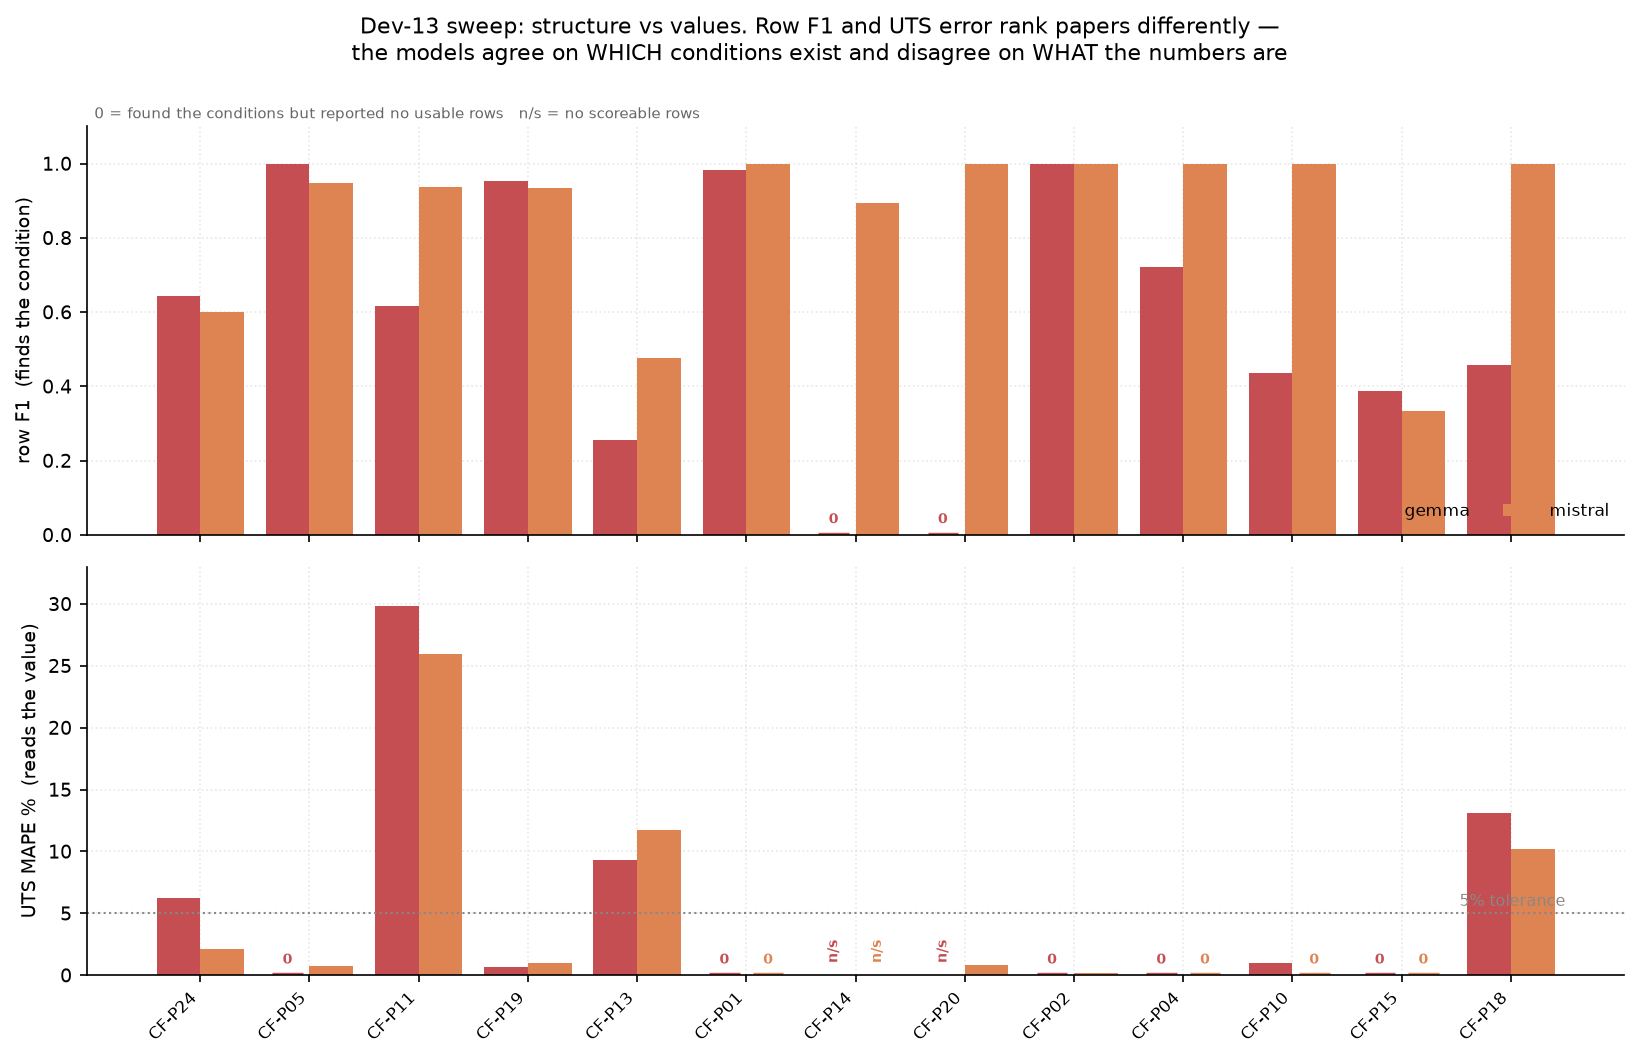
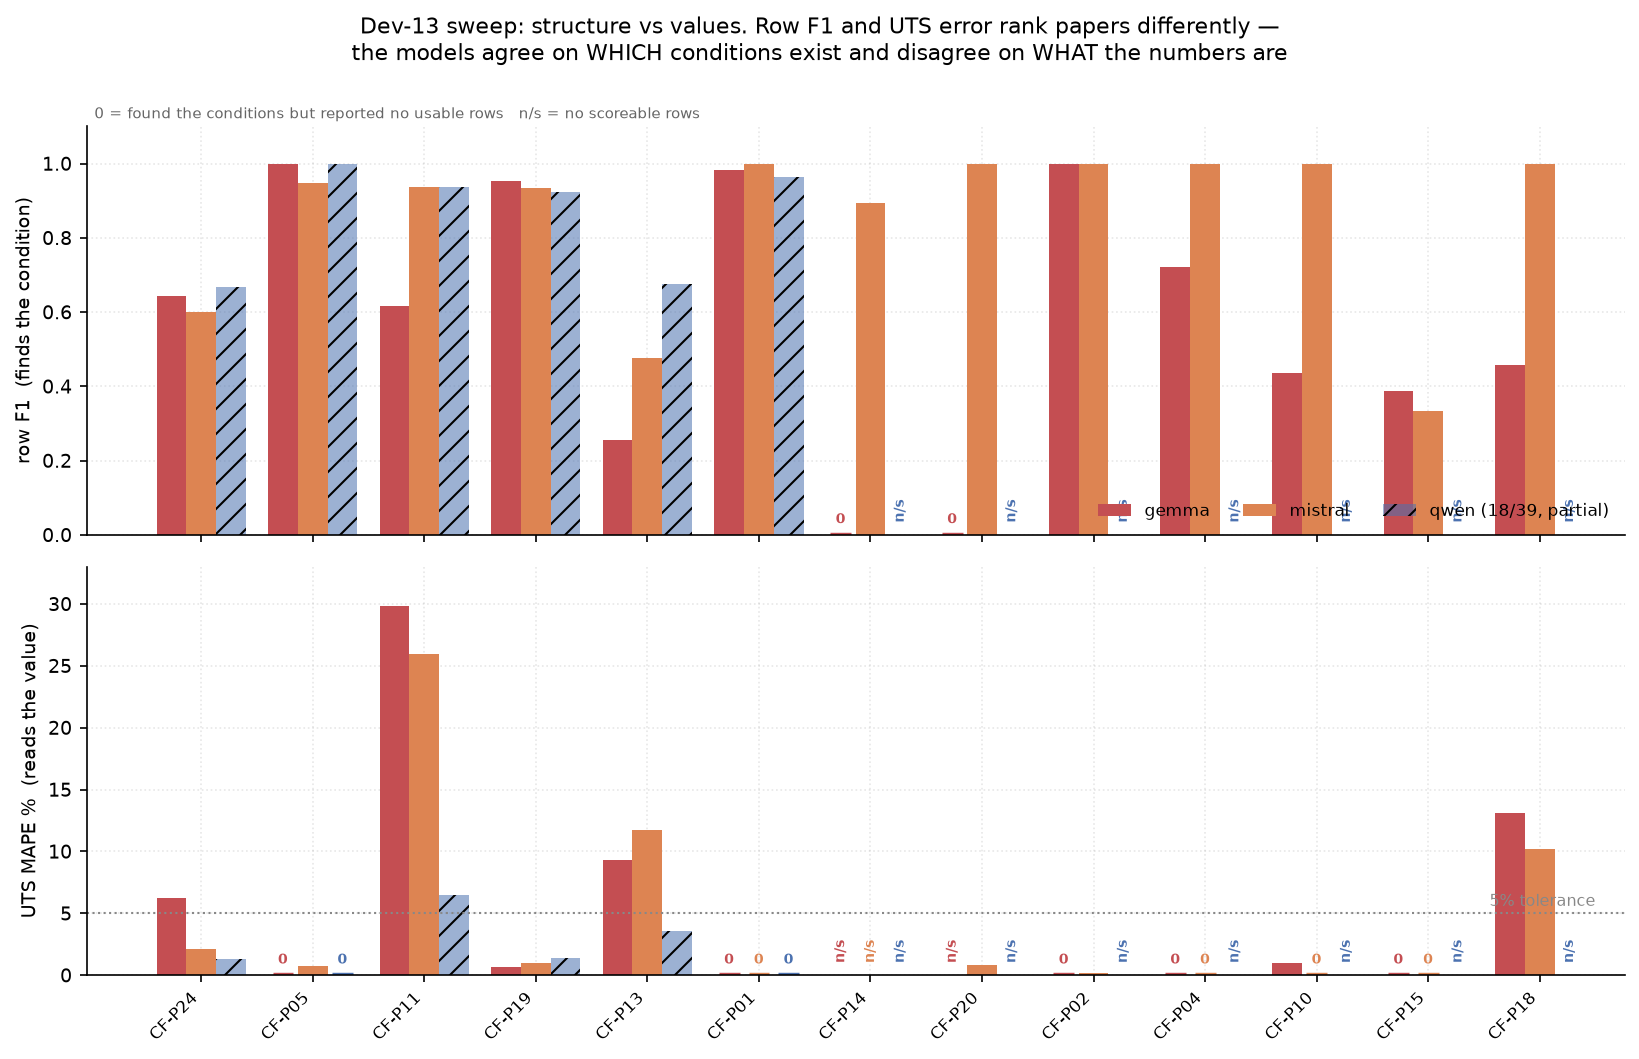
Fix qwen omission and label the two experiment generations
Two defects found on review:

1. fig6 silently DROPPED qwen because it filtered to models with >=39 runs. A
   partially-complete model vanished from the chart with no indication it had
   been run at all — indistinguishable from "not attempted". Partial series are
   now drawn hatched and semi-transparent with their run count in the legend.

2. Worse: the page mixed two experiment generations without saying so. The early
   per-paper runs (mixed prompt versions) report qwen at 3.48% MAPE, while the
   frozen dev-13 sweep showed it as incomplete — same model, two numbers, no
   labelling. A reader would rightly distrust the page.

Both generations are now labelled at the top of README and findings.md, every
table states which it comes from, and generation B (frozen prompt) is identified
as the one to cite. qwen's partial sweep numbers (18/39, 6/13 papers) are shown
in italics with an explicit warning that the papers covered so far are not a
random subset.

Also re-staged DEV13-sweep.xlsx, which was stale at 82 runs (now 96).

Claude-Session: https://claude.ai/code/session_013UGCw4LNzR9XkocEn6dyzh

diff --git a/make_figures.py b/make_figures.py
@@ -170,7 +170,11 @@ if (R / "DEV13-sweep.xlsx").exists():
     d13 = pd.read_excel(R / "DEV13-sweep.xlsx", sheet_name="summary")
     d13["model"] = d13["run"].str.split("__").str[1].str.split("-").str[0]
     d13["paper"] = d13["run"].str.split("__").str[0]
-    done = [m for m in MODELS if (d13.model == m).sum() >= 39]
+    # Include EVERY model that has runs. Dropping a partially-complete model makes it vanish
+    # from the chart with no indication it was ever run -- a reader cannot tell "absent" from
+    # "not yet finished". Partial series are drawn and labelled with their run count instead.
+    done = [m for m in MODELS if (d13.model == m).sum() > 0]
+    counts = {m: int((d13.model == m).sum()) for m in done}
     papers = (d13.groupby("paper")["gt_rows"].first().sort_values(ascending=False).index.tolist())
     fig, axes = plt.subplots(2, 1, figsize=(11, 7), sharex=True)
     x = np.arange(len(papers)); w = 0.8 / max(len(done), 1)
@@ -180,7 +184,12 @@ if (R / "DEV13-sweep.xlsx").exists():
                                               (axes[1], "UTS_MAPE_pct", "UTS MAPE %  (reads the value)")]):
             v = [g[met].mean().get(p, np.nan) for p in papers]
             pos = x + (j - (len(done) - 1) / 2) * w
-            ax.bar(pos, v, w, label=mo if k_ == 0 else None, color=COLOR[mo])
+            lab = None
+            if k_ == 0:
+                lab = mo if counts[mo] >= 39 else f"{mo} ({counts[mo]}/39, partial)"
+            ax.bar(pos, v, w, label=lab, color=COLOR[mo],
+                   alpha=1.0 if counts[mo] >= 39 else 0.55,
+                   hatch=None if counts[mo] >= 39 else "//")
             # A zero bar and a no-data bar both render blank; distinguish them explicitly.
             for xi, vi in zip(pos, v):
                 if pd.isna(vi):

diff --git a/README.md b/README.md
@@ -42,13 +42,27 @@ this chart?") gave the wrong answer at least once; the token delta never did.
 
 ---
 
-## Headline finding
+## Two experiment generations — read the labels
+
+This repo contains results from **two separate runs**, and the same model appears in both with
+different numbers. They are not interchangeable:
+
+| | papers | prompt | status |
+|---|---|---|---|
+| **A. Early per-paper runs** | CF-P11, P13, P18, P19 | **mixed versions**, changed mid-campaign | complete, superseded |
+| **B. Dev-13 sweep** | all 13 dev papers | **one frozen version** | gemma + mistral complete, **qwen in progress** |
+
+**Generation B supersedes A** for any model comparison. A is retained because it contains the
+supplementary-information A/B and the early figure/table contrast, which B does not repeat.
+Every table below states which generation it comes from.
+
+## Headline finding — generation A (early per-paper runs, mixed prompts)
 
 **Chart-reading accuracy is monotonic in image-token budget, and it is not explained by model size.**
 
 Pooled UTS error across the two papers whose values are figure-locked (CF-P11, CF-P18):
 
-| model | image tokens | UTS MAPE | runtime | n |
+| model | image tokens | UTS MAPE | runtime | runs |
 |---|---|---|---|---|
 | gemma-3-27b | 256 | **40.78 %** | 4.4 min/run | 3 |
 | mistral-small-3.1 | 1,030 | **18.78 %** | **3.2 min/run** | 6 |
@@ -97,17 +111,20 @@ configuration that reads charts reliably.
 
 ![runtime vs accuracy](docs/figures/fig5_runtime_vs_accuracy.png)
 
-## Dev-13 sweep (in progress — 2 of 3 models complete)
+## Dev-13 sweep — generation B (primary result, in progress)
 
-All 13 development papers, 3 models × 3 repeats = 117 runs, one frozen prompt version. This
-supersedes the earlier per-paper results, which came from mixed prompt versions and are not
-poolable.
+All 13 development papers, 3 models × 3 repeats = 117 runs, one frozen prompt version. **This is the
+result to cite**; generation A above came from mixed prompt versions and is not poolable with it.
+
+> **qwen3-vl-32b is still running (18/39 runs, 6/13 papers).** Its row is marked partial everywhere
+> it appears and must not be compared against the completed rows — the papers it has covered so far
+> are not a random subset. Charts draw it hatched and semi-transparent rather than omitting it.
 
 | configuration | model | tools | image path | runs | row F1 | cell | UTS acc | **UTS MAPE** | API cost |
 |---|---|---|---|---|---|---|---|---|---|
 | gemma | `gemma-3-27b-it` | agentic view/note/submit | JPEG, **256** tok | 39 | 0.573 | 0.798 | 0.761 | 5.20 | $0 · local |
 | mistral | `mistral-small-3.1-24b-instruct-2503` | agentic view/note/submit | JPEG, **1,030** tok | 39 | 0.856 | 0.906 | 0.808 | 4.44 | $0 · local |
-| qwen | `qwen3-vl-32b-instruct` | agentic view/note/submit | JPEG, **~2,900** dyn | *4/39* | — | — | — | — | $0 · local |
+| qwen *(partial)* | `qwen3-vl-32b-instruct` | agentic view/note/submit | JPEG, **~2,900** dyn | **18/39** | *0.850* | *0.897* | *0.877* | *2.12* | $0 · local |
 | **claude** | `claude-opus-5` | **Read only** | PDF native | 39 | **0.950** | **0.963** | **0.982** | **0.39** | **$10.47** |
 | **claude code** | `claude-opus-5` | Read + Bash + Write + Edit | PDF native + code | 39 | 0.933 | 0.962 | 0.968 | 0.49 | $13.50 |
 

diff --git a/docs/findings.md b/docs/findings.md
@@ -1,5 +1,11 @@
 # Findings
 
+> **Two experiment generations.** Sections 1 and 3–6 report the **early per-paper runs** (CF-P11,
+> P13, P18, P19) under mixed prompt versions. Section 2 and the dev-13 tables report the **frozen
+> 13-paper sweep**, which supersedes them for model comparison. The same model can appear in both
+> with different numbers. `qwen3-vl-32b` is **still running in the sweep (18/39)** — its sweep row is
+> partial and italicised wherever shown.
+
 All numbers below come from runs on the **development** split. The frozen 10-paper test split has
 not been run. Ground truth is not distributed with this repo, so the workbooks in `results/` carry
 metrics only (`summary`, `per_column`); each is stamped with the GT filename and MD5 it was scored
